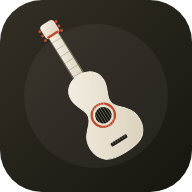
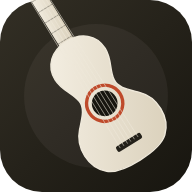
feat: aproxima violao no icone do app

Changed region(s): [[0.1562, 0.0, 0.875, 0.9062]]

diff --git a/sw.js b/sw.js
@@ -5,7 +5,7 @@
  * ========================================================================= */
 'use strict';
 
-var CACHE_NAME = 'tocado-shell-v11';
+var CACHE_NAME = 'tocado-shell-v12';
 var APP_SHELL = [
   './',
   './index.html',
